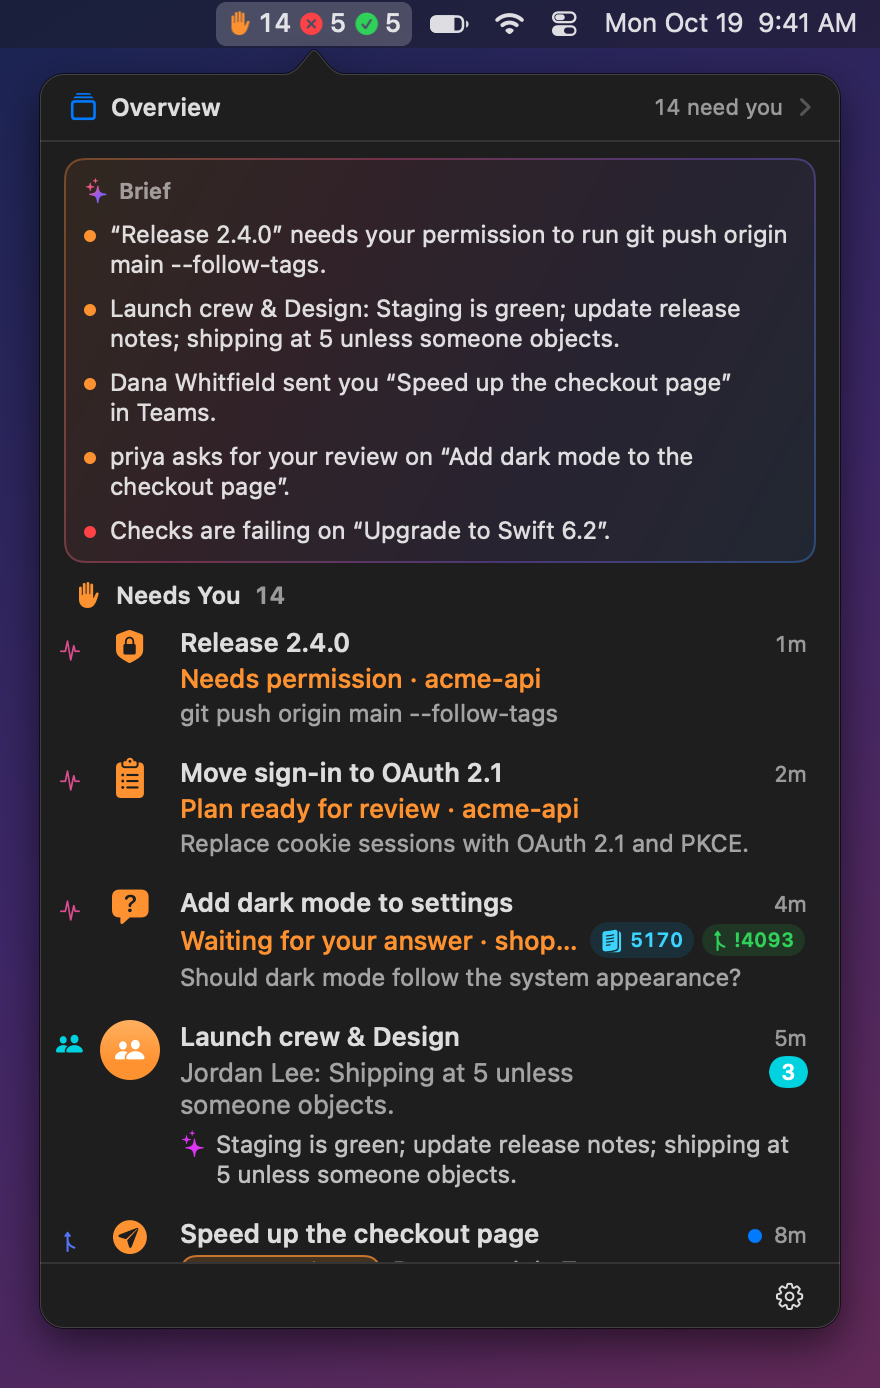
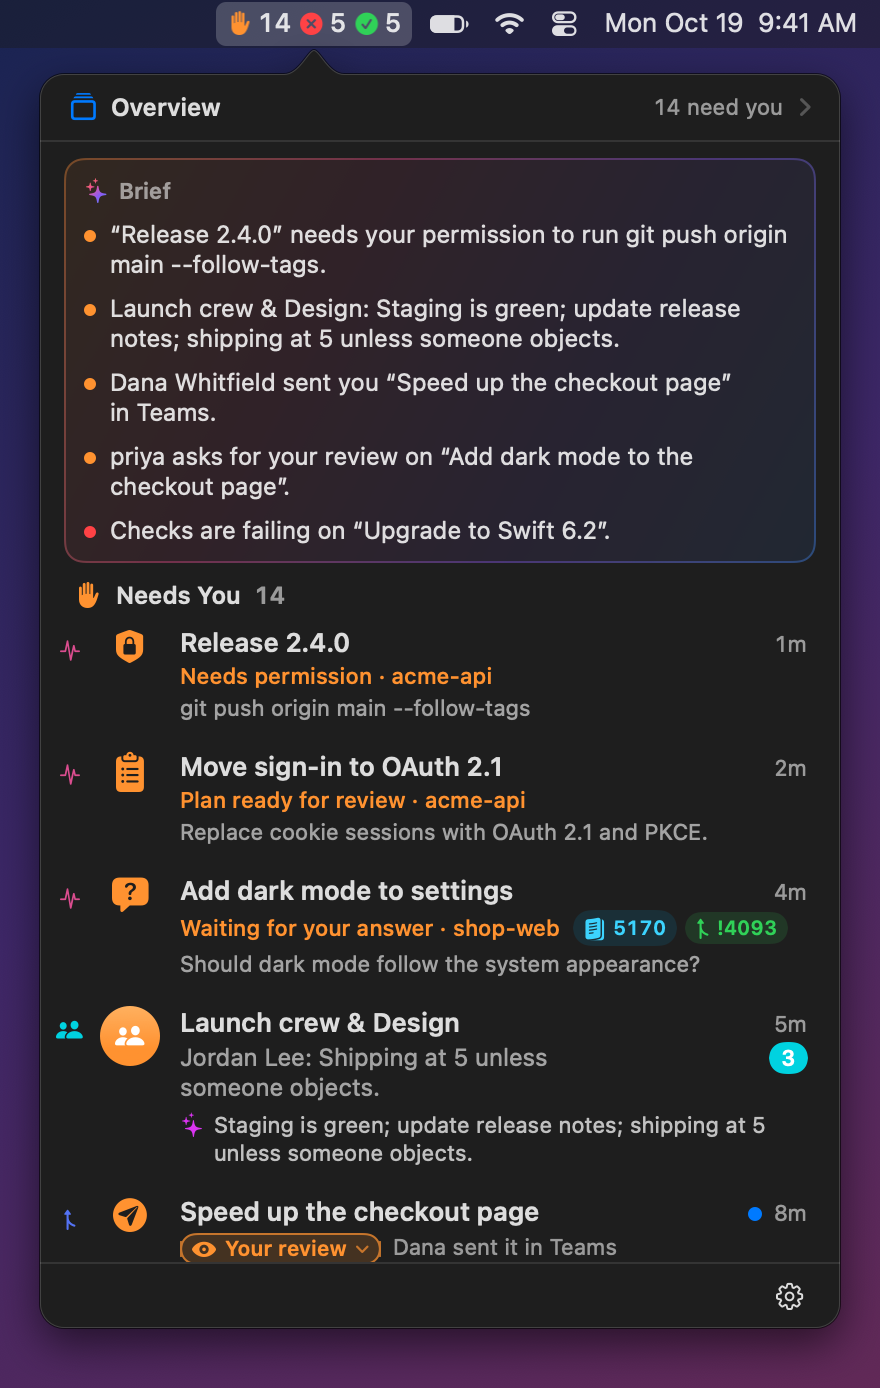
Split Aligned Rows in two, and show Together's item options
Aligned, Easier-to-Read Rows becomes Aligned Titles, which lines titles up across sources whatever
each row starts with, and Larger Reasons and Previews, which makes the lines under a title larger and
widgets grow to fit them. A new install starts with Aligned Titles on and Larger Reasons off, so a
repository's name beside link chips stays whole. An install that had the old option on gets both, as
InterfaceOptions.migrate moves interface.readableRows over before anything reads it.

With Simple Layout Choices on and every menu-bar section in one item, Together shows that item's
Counts and List right under the choice; Customize Arrangement... keeps the rest. The README's pictures
are drawn again.

diff --git a/Tests/BriefBarCoreTests/NewInstallTests.swift b/Tests/BriefBarCoreTests/NewInstallTests.swift
@@ -10,8 +10,10 @@ import Testing
     ]
     private let startHidden: Set<SectionID> = [.azureDevOpsSprint, .azureDevOpsPipelines]
 
-    /// What BriefBar does with its preferences as it starts, as `AppModel` does: the look, then the menu bar.
+    /// What BriefBar does with its preferences as it starts, as `AppModel` does: what an earlier version saved comes over,
+    /// then a new install's look, then its menu bar.
     private func start(_ defaults: MemorySettings) {
+        InterfaceOptions.migrate(defaults)
         NewInstall.saveLook(to: defaults)
         NewInstall.saveMenuBar(sections: sections, hidden: startHidden, to: defaults)
     }
@@ -22,7 +24,7 @@ import Testing
         start(defaults)
 
         let options = InterfaceOptions.load(from: defaults)
-        #expect(options == InterfaceOptions(enabled: [.clearerStates, .readableRows, .simpleLayoutControls]))
+        #expect(options == InterfaceOptions(enabled: [.clearerStates, .alignedTitles, .simpleLayoutControls]))
         // Every switch is saved, those off too, as Settings › Appearance saves them.
         for option in InterfaceOption.allCases {
             #expect(defaults.object(forKey: option.defaultsKey) as? Bool == options[option])
@@ -34,7 +36,7 @@ import Testing
 
     @Test func aNewInstallKeepsAnOptionThatsAlreadySaved() {
         let defaults = MemorySettings()
-        defaults.set(false, forKey: InterfaceOption.readableRows.defaultsKey)
+        defaults.set(false, forKey: InterfaceOption.alignedTitles.defaultsKey)
         defaults.set(true, forKey: InterfaceOption.quietAppearance.defaultsKey)
         start(defaults)
         #expect(InterfaceOptions.load(from: defaults) == InterfaceOptions(enabled: [.clearerStates, .simpleLayoutControls, .quietAppearance]))
@@ -97,6 +99,24 @@ import Testing
         #expect(InterfaceOptions.load(from: defaults) == InterfaceOptions())
         #expect(SectionLayout.load(.menuBar, from: defaults) == layout)
         #expect(MenuBarItemOptions.load(from: defaults).isEmpty)
+    }
+
+    @Test func anUpdateWithAlignedEasierToReadRowsOnKeepsItsLookAsBothOptionsItBecame() {
+        // As Settings › Appearance saved it before the option became two: each switch, that one on.
+        let defaults = MemorySettings()
+        NewInstall.launched(defaults)
+        for key in ["compactBriefs", "quietAppearance", "compactMenuBar", "clearerStates", "visibleActions", "simpleLayoutControls"] {
+            defaults.set(false, forKey: "interface.\(key)")
+        }
+        defaults.set(true, forKey: InterfaceOptions.formerReadableRowsKey)
+        start(defaults)
+        #expect(InterfaceOptions.load(from: defaults) == InterfaceOptions(enabled: [.alignedTitles, .largerReasons]))
+        #expect(defaults.object(forKey: InterfaceOptions.formerReadableRowsKey) == nil)
+        #expect(defaults.object(forKey: Surface.menuBar.defaultsKey) == nil)
+        // Once is enough: starting again changes nothing.
+        let after = defaults.dictionaryRepresentation()
+        start(defaults)
+        #expect(NSDictionary(dictionary: defaults.dictionaryRepresentation()).isEqual(to: after))
     }
 
     @Test func anUpdateWithNothingArrangedYetStillGetsAnItemForEachSection() {

diff --git a/Sources/BriefBar/AppearancePage.swift b/Sources/BriefBar/AppearancePage.swift
@@ -81,8 +81,9 @@ private extension InterfaceOption {
     var title: String {
         switch self {
         case .clearerStates: "Clearer States and Counts"
-        case .readableRows: "Aligned, Easier-to-Read Rows"
+        case .alignedTitles: "Aligned Titles"
         case .simpleLayoutControls: "Simple Layout Choices"
+        case .largerReasons: "Larger Reasons and Previews"
         case .compactBriefs: "Compact Briefs"
         case .quietAppearance: "Quieter Colors and Surfaces"
         case .compactMenuBar: "Compact Menu Bar"
@@ -94,8 +95,9 @@ private extension InterfaceOption {
     var caption: String {
         switch self {
         case .clearerStates: "Shows Ready to Merge apart from Finished, and counts only what needs you or failed."
-        case .readableRows: "Lines up titles across sources, and makes reasons and previews larger."
+        case .alignedTitles: "Lines up titles across sources, whatever each row starts with."
         case .simpleLayoutControls: "Starts Menu Bar, Widgets and Windows with Together, Separate and Custom."
+        case .largerReasons: "Makes the lines under each title larger, and widgets grow to fit them."
         case .compactBriefs: "Shortens the brief to two highlights, and shows a chat's summary in place of its preview."
         case .quietAppearance: "Keeps color for status symbols, with neutral navigation, avatars and backgrounds."
         case .compactMenuBar: "Shows one menu-bar icon that counts what needs you or failed, and keeps your arrangement."
@@ -111,15 +113,20 @@ private extension InterfaceOption {
             Separates Ready to Merge from Finished in the Overview. The window's sidebar badges, a list's tabs and its headers \
             count only what needs you or is failing, and the sprint's remaining work is labeled "left".
             """
-        case .readableRows:
+        case .alignedTitles:
             """
-            Aligns the titles of rows across sources, and makes their reasons and previews larger. Widgets grow a little to \
-            keep their rows whole.
+            Gives every row's icon, avatar or symbol a column of the same width, so that titles line up across sources, in \
+            the lists, the window and the widgets. Teams' widget rows take the size of other sources' titles.
             """
         case .simpleLayoutControls:
             """
             Starts the Menu Bar, Widgets and Windows pages with three choices: Together puts every section in one, Separate \
             gives each its own, and Custom opens the full editor, to move or hide sections one at a time.
+            """
+        case .largerReasons:
+            """
+            Makes the lines under each row's title larger: its reason, such as who replied, and what someone wrote, such as a \
+            comment or a chat's message; and the Overview widget's lines too. Widgets grow a little to keep their rows whole.
             """
         case .compactBriefs:
             """

diff --git a/Sources/BriefBar/LayoutPage.swift b/Sources/BriefBar/LayoutPage.swift
@@ -152,6 +152,21 @@ struct LayoutPage: View {
                     // Its boxes on the header's edges.
                     .padding(.horizontal, -Self.textInset)
                 } else {
+                    // Everything in one menu-bar item: how it shows its sections, right under the choice, as a new install
+                    // starts. Customize Arrangement… has the rest.
+                    if surface == .menuBar, layoutChoice == .together, items.count == 1, let item = items.first, item.sections.count > 1 {
+                        Form {
+                            Section {
+                                menuBarOptions(item, withStates: false)
+                            }
+                        }
+                        .formStyle(.grouped)
+                        .scrollContentBackground(.hidden)
+                        .scrollDisabled(true)
+                        .fixedSize(horizontal: false, vertical: true)
+                        // Its box on the header's edges.
+                        .padding(.horizontal, -Self.textInset)
+                    }
                     note("\(items.count) \(items.count == 1 ? surface.itemNoun.lowercased() : surface.itemNoun.lowercased() + "s"), \(hidden.count) hidden sections")
                     Button("Customize Arrangement…") { editingCustom = true }
                 }
@@ -385,9 +400,11 @@ struct LayoutPage: View {
         }
     }
 
-    /// Side by side, or added up by state, with which states.
+    /// Side by side, or added up by state, with which states, and its list.
+    /// - Parameter withStates: with a switch for each state it adds up; without, under Together, where Customize
+    ///   Arrangement… has them.
     @ViewBuilder
-    private func menuBarOptions(_ item: SectionLayout.Item) -> some View {
+    private func menuBarOptions(_ item: SectionLayout.Item, withStates: Bool = true) -> some View {
         let options = model.options(forMenuBarItem: item.id)
         let change = { (body: (inout MenuBarItemOptions) -> Void) in
             var changed = options
@@ -399,12 +416,12 @@ struct LayoutPage: View {
             Text("Added Up").tag(true)
         } label: {
             Text("Counts")
-            Text(options.byState
-                 ? "One count for each state below, added up across its sections"
-                 : "Each section's own symbol and counts, one after the other")
+            Text(!options.byState ? "Each section's own symbol and counts, one after the other"
+                 : withStates ? "One count for each state below, added up across its sections"
+                 : "One count for each state, added up across its sections")
         }
         .pickerStyle(.segmented)
-        if options.byState {
+        if withStates, options.byState {
             ForEach(MenuBarItemOptions.order, id: \.self) { state in
                 Toggle(isOn: Binding(
                     get: { options.states.contains(state) },

diff --git a/Sources/BriefBarCore/InterfaceOptions.swift b/Sources/BriefBarCore/InterfaceOptions.swift
@@ -3,8 +3,9 @@ import Foundation
 /// In the order Settings › Appearance lists them: first those a new install starts with on (`NewInstall`), then the others.
 public enum InterfaceOption: String, CaseIterable, Sendable {
     case clearerStates
-    case readableRows
+    case alignedTitles
     case simpleLayoutControls
+    case largerReasons
     case compactBriefs
     case quietAppearance
     case compactMenuBar
@@ -35,7 +36,8 @@ public struct InterfaceOptions: Equatable, Sendable {
 
     public var compactBriefs: Bool { self[.compactBriefs] }
     public var quietAppearance: Bool { self[.quietAppearance] }
-    public var readableRows: Bool { self[.readableRows] }
+    public var alignedTitles: Bool { self[.alignedTitles] }
+    public var largerReasons: Bool { self[.largerReasons] }
     public var compactMenuBar: Bool { self[.compactMenuBar] }
     public var clearerStates: Bool { self[.clearerStates] }
     public var visibleActions: Bool { self[.visibleActions] }
@@ -49,6 +51,22 @@ public struct InterfaceOptions: Equatable, Sendable {
         for option in InterfaceOption.allCases {
             defaults.set(self[option], forKey: option.defaultsKey)
         }
+    }
+
+    /// Where Aligned, Easier-to-Read Rows was saved, the one option that both Aligned Titles and Larger Reasons and
+    /// Previews were, before they became two.
+    public static let formerReadableRowsKey = "interface.readableRows"
+
+    /// Brings over what an earlier version saved, before anything loads it: Aligned, Easier-to-Read Rows on turns both
+    /// options it became on, unless either is saved already, so the look stays as it was. Its key goes.
+    public static func migrate(_ defaults: some SettingsStorage) {
+        guard defaults.object(forKey: formerReadableRowsKey) != nil else { return }
+        if defaults.bool(forKey: formerReadableRowsKey) {
+            for option in [InterfaceOption.alignedTitles, .largerReasons] where defaults.object(forKey: option.defaultsKey) == nil {
+                defaults.set(true, forKey: option.defaultsKey)
+            }
+        }
+        defaults.removeObject(forKey: formerReadableRowsKey)
     }
 
     /// A temporary presentation of already-visible sections. Saved item IDs, hidden sections and order survive.

diff --git a/Sources/BriefBarUI/InterfaceStyle.swift b/Sources/BriefBarUI/InterfaceStyle.swift
@@ -13,10 +13,15 @@ extension EnvironmentValues {
 }
 
 extension InterfaceOptions {
-    package var compactRowHeight: CGFloat { readableRows ? 46 : 42 }
-    package var rowIconWidth: CGFloat { readableRows ? 30 : 20 }
-    package var rowDetailSize: CGFloat { readableRows ? 12 : 11 }
-    package var rowReasonSize: CGFloat { readableRows ? 13 : 11 }
+    /// A widget's row: taller with Larger Reasons and Previews, for its larger line under the title.
+    package var compactRowHeight: CGFloat { largerReasons ? 46 : 42 }
+    /// The column of a row's icon, before its title: as wide as an avatar with Aligned Titles, so that titles line up
+    /// across sources, whatever each row starts with.
+    package var rowIconWidth: CGFloat { alignedTitles ? 30 : 20 }
+    /// Between a row's icon and its title.
+    package var rowIconSpacing: CGFloat { alignedTitles ? 10 : 9 }
+    package var rowDetailSize: CGFloat { largerReasons ? 12 : 11 }
+    package var rowReasonSize: CGFloat { largerReasons ? 13 : 11 }
 }
 
 extension View {
@@ -169,7 +174,7 @@ package struct WidgetMore: View {
         .font(size: 11, weight: .medium)
         .foregroundStyle(options.visibleActions ? Color.accentColor : .secondary)
         .frame(maxWidth: .infinity, alignment: .leading)
-        .padding(.leading, options.readableRows ? 47 : 37)
+        .padding(.leading, options.alignedTitles ? 47 : 37)
         .padding(.top, 4)
     }
 }

diff --git a/Tests/BriefBarCoreTests/InterfaceOptionsTests.swift b/Tests/BriefBarCoreTests/InterfaceOptionsTests.swift
@@ -46,6 +46,25 @@ import Testing
         #expect(defaults.string(forKey: SourceChoices.defaultsKey) == "source consent")
     }
 
+    @Test func alignedEasierToReadRowsOffBecomesNeither() {
+        let defaults = MemorySettings()
+        defaults.set(false, forKey: InterfaceOptions.formerReadableRowsKey)
+        InterfaceOptions.migrate(defaults)
+        #expect(defaults.object(forKey: InterfaceOptions.formerReadableRowsKey) == nil)
+        #expect(defaults.object(forKey: InterfaceOption.alignedTitles.defaultsKey) == nil)
+        #expect(defaults.object(forKey: InterfaceOption.largerReasons.defaultsKey) == nil)
+        #expect(InterfaceOptions.load(from: defaults) == InterfaceOptions())
+    }
+
+    @Test func alignedEasierToReadRowsOnLeavesAnOptionSavedSinceAsItIs() {
+        let defaults = MemorySettings()
+        defaults.set(true, forKey: InterfaceOptions.formerReadableRowsKey)
+        defaults.set(false, forKey: InterfaceOption.largerReasons.defaultsKey)
+        InterfaceOptions.migrate(defaults)
+        #expect(InterfaceOptions.load(from: defaults) == InterfaceOptions(enabled: [.alignedTitles]))
+        #expect(defaults.object(forKey: InterfaceOptions.formerReadableRowsKey) == nil)
+    }
+
     @Test func compactMenuIsOnlyAReversibleViewOfVisibleItems() {
         let layout = SectionLayout(.menuBar, items: [
             .init(id: "custom-first", sections: [.copilotSessions, .teamsChats]),

diff --git a/Sources/CopilotUI/Views/SessionRowView.swift b/Sources/CopilotUI/Views/SessionRowView.swift
@@ -36,11 +36,11 @@ struct SessionRowView: View {
             row(task)
             // What you asked it with Ask…, and its field, then its summary: each under the row, as far in as its name.
             SessionAskPart(ref: ref, name: session.displayName, isTask: task != nil, place: .row, open: answerOpener(task))
-                .padding(.leading, 8 + options.rowIconWidth * textScale + (options.readableRows ? 10 : 9))
+                .padding(.leading, 8 + options.rowIconWidth * textScale + options.rowIconSpacing)
                 .padding(.trailing, 8)
                 .padding(.bottom, 6)
             RowSummary(subject: ref)
-                .padding(.leading, 8 + options.rowIconWidth * textScale + (options.readableRows ? 10 : 9))
+                .padding(.leading, 8 + options.rowIconWidth * textScale + options.rowIconSpacing)
                 .padding(.trailing, 8)
                 .padding(.bottom, 6)
         }
@@ -85,7 +85,7 @@ struct SessionRowView: View {
 
     private func row(_ task: SentTask?) -> some View {
         Button(action: action) {
-            HStack(alignment: .top, spacing: options.readableRows ? 10 : 9) {
+            HStack(alignment: .top, spacing: options.rowIconSpacing) {
                 Image(systemName: session.rowSymbol)
                     .font(size: compact ? 15 : 17)
                     .foregroundStyle(session.rowColor)

diff --git a/Sources/TeamsUI/Views/WidgetSectionView.swift b/Sources/TeamsUI/Views/WidgetSectionView.swift
@@ -120,15 +120,15 @@ struct CompactConversationRow: View {
 
     var body: some View {
         Button(action: open) {
-            HStack(spacing: options.readableRows ? 10 : 8) {
+            HStack(spacing: options.alignedTitles ? 10 : 8) {
                 AvatarView(conversation: conversation)
                     .frame(width: 22, height: 22)
-                    .frame(width: options.readableRows ? 30 : 22)
+                    .frame(width: options.alignedTitles ? 30 : 22)
                     .opacity(conversation.isUnread ? 1 : 0.6)
                 VStack(alignment: .leading, spacing: 1) {
                     HStack(alignment: .firstTextBaseline, spacing: 6) {
                         Text(conversation.name)
-                            .font(size: options.readableRows ? 13 : 12, weight: conversation.isUnread ? .semibold : .regular)
+                            .font(size: options.alignedTitles ? 13 : 12, weight: conversation.isUnread ? .semibold : .regular)
                             .foregroundStyle(conversation.isUnread ? .primary : .secondary)
                             .lineLimit(1)
                         Spacer(minLength: 4)

diff --git a/Sources/BriefBar/OverviewWidget.swift b/Sources/BriefBar/OverviewWidget.swift
@@ -113,7 +113,7 @@ struct OverviewWidgetView: View {
                                 .foregroundStyle(options.quietAppearance ? AnyShapeStyle(Color.secondary) : AnyShapeStyle(Self.gradient))
                         }
                         Text(text.text)
-                            .font(size: options.readableRows ? 13 : 12, weight: .medium)
+                            .font(size: options.largerReasons ? 13 : 12, weight: .medium)
                             .lineLimit(2)
                             .multilineTextAlignment(.leading)
                             .frame(maxWidth: .infinity, alignment: .leading)
@@ -132,7 +132,7 @@ struct OverviewWidgetView: View {
                     HStack(spacing: 8) {
                         mark(line.source)
                         Text(writer.text(for: line).text)
-                            .font(size: options.readableRows ? 13 : 12)
+                            .font(size: options.largerReasons ? 13 : 12)
                             .lineLimit(1)
                             .truncationMode(.tail)
                         Spacer(minLength: 0)

diff --git a/Sources/AzureDevOpsUI/Views/PRRowView.swift b/Sources/AzureDevOpsUI/Views/PRRowView.swift
@@ -86,7 +86,7 @@ struct PRRowView: View {
                 // Its stage's menu and Finished My Review, over the row's button, which would take their clicks.
                 .stageControls(ref: item.key.linkRef, order: stage == nil ? nil : ordering, now: now)
                 RowSummary(subject: item.key.linkRef)
-                    .padding(.leading, 8 + options.rowIconWidth * textScale + (options.readableRows ? 10 : 9))
+                    .padding(.leading, 8 + options.rowIconWidth * textScale + options.rowIconSpacing)
                     .padding(.trailing, 8)
                     .padding(.bottom, 6)
             }
@@ -131,7 +131,7 @@ struct PRRowView: View {
     }
 
     private var content: some View {
-        HStack(alignment: .top, spacing: options.readableRows ? 10 : 9) {
+        HStack(alignment: .top, spacing: options.rowIconSpacing) {
             RowIcon(item: item, size: compact ? 15 : 17)
                 .frame(width: options.rowIconWidth * textScale, height: 20 * textScale)
                 .accessibilityHidden(true)

diff --git a/Tests/AzureDevOpsUITests/StateRowsTests.swift b/Tests/AzureDevOpsUITests/StateRowsTests.swift
@@ -64,13 +64,15 @@ import Testing
             let height = source.widgetHeight(for: section, rows: 3)
             #expect(height == 162)
         }
-        services.setInterfaceOption(.readableRows, enabled: true)
+        services.setInterfaceOption(.alignedTitles, enabled: true)
+        #expect(source.widgetHeight(for: .azureDevOpsPullRequests, rows: 3) == 162)
+        services.setInterfaceOption(.largerReasons, enabled: true)
         for section in [SectionID.azureDevOpsPullRequests, .azureDevOpsSprint, .azureDevOpsPipelines] {
             let height = source.widgetHeight(for: section, rows: 3)
             #expect(height == 174)
             #expect(source.stateRows(for: section).isEmpty)
         }
-        services.setInterfaceOption(.readableRows, enabled: false)
+        services.setInterfaceOption(.largerReasons, enabled: false)
         let restored = source.widgetHeight(for: .azureDevOpsPullRequests, rows: 3)
         #expect(restored == 162)
     }

diff --git a/Tests/BriefBarUITests/InterfaceSettingsTests.swift b/Tests/BriefBarUITests/InterfaceSettingsTests.swift
@@ -17,12 +17,14 @@ import Testing
         #expect(services.interfaceOptions == InterfaceOptions(enabled: [.visibleActions]))
     }
 
-    @Test func onlyReadableRowsChangeTheWidgetRowHeight() {
+    @Test func alignedTitlesLineUpRowsAndLargerReasonsGrowWidgets() {
         #expect(InterfaceOptions().compactRowHeight == 42)
         for option in InterfaceOption.allCases {
             let options = InterfaceOptions(enabled: [option])
-            #expect(options.compactRowHeight == (option == .readableRows ? 46 : 42))
-            #expect(options.rowIconWidth == (option == .readableRows ? 30 : 20))
+            #expect(options.compactRowHeight == (option == .largerReasons ? 46 : 42))
+            #expect(options.rowReasonSize == (option == .largerReasons ? 13 : 11))
+            #expect(options.rowIconWidth == (option == .alignedTitles ? 30 : 20))
+            #expect(options.rowIconSpacing == (option == .alignedTitles ? 10 : 9))
         }
     }
 
